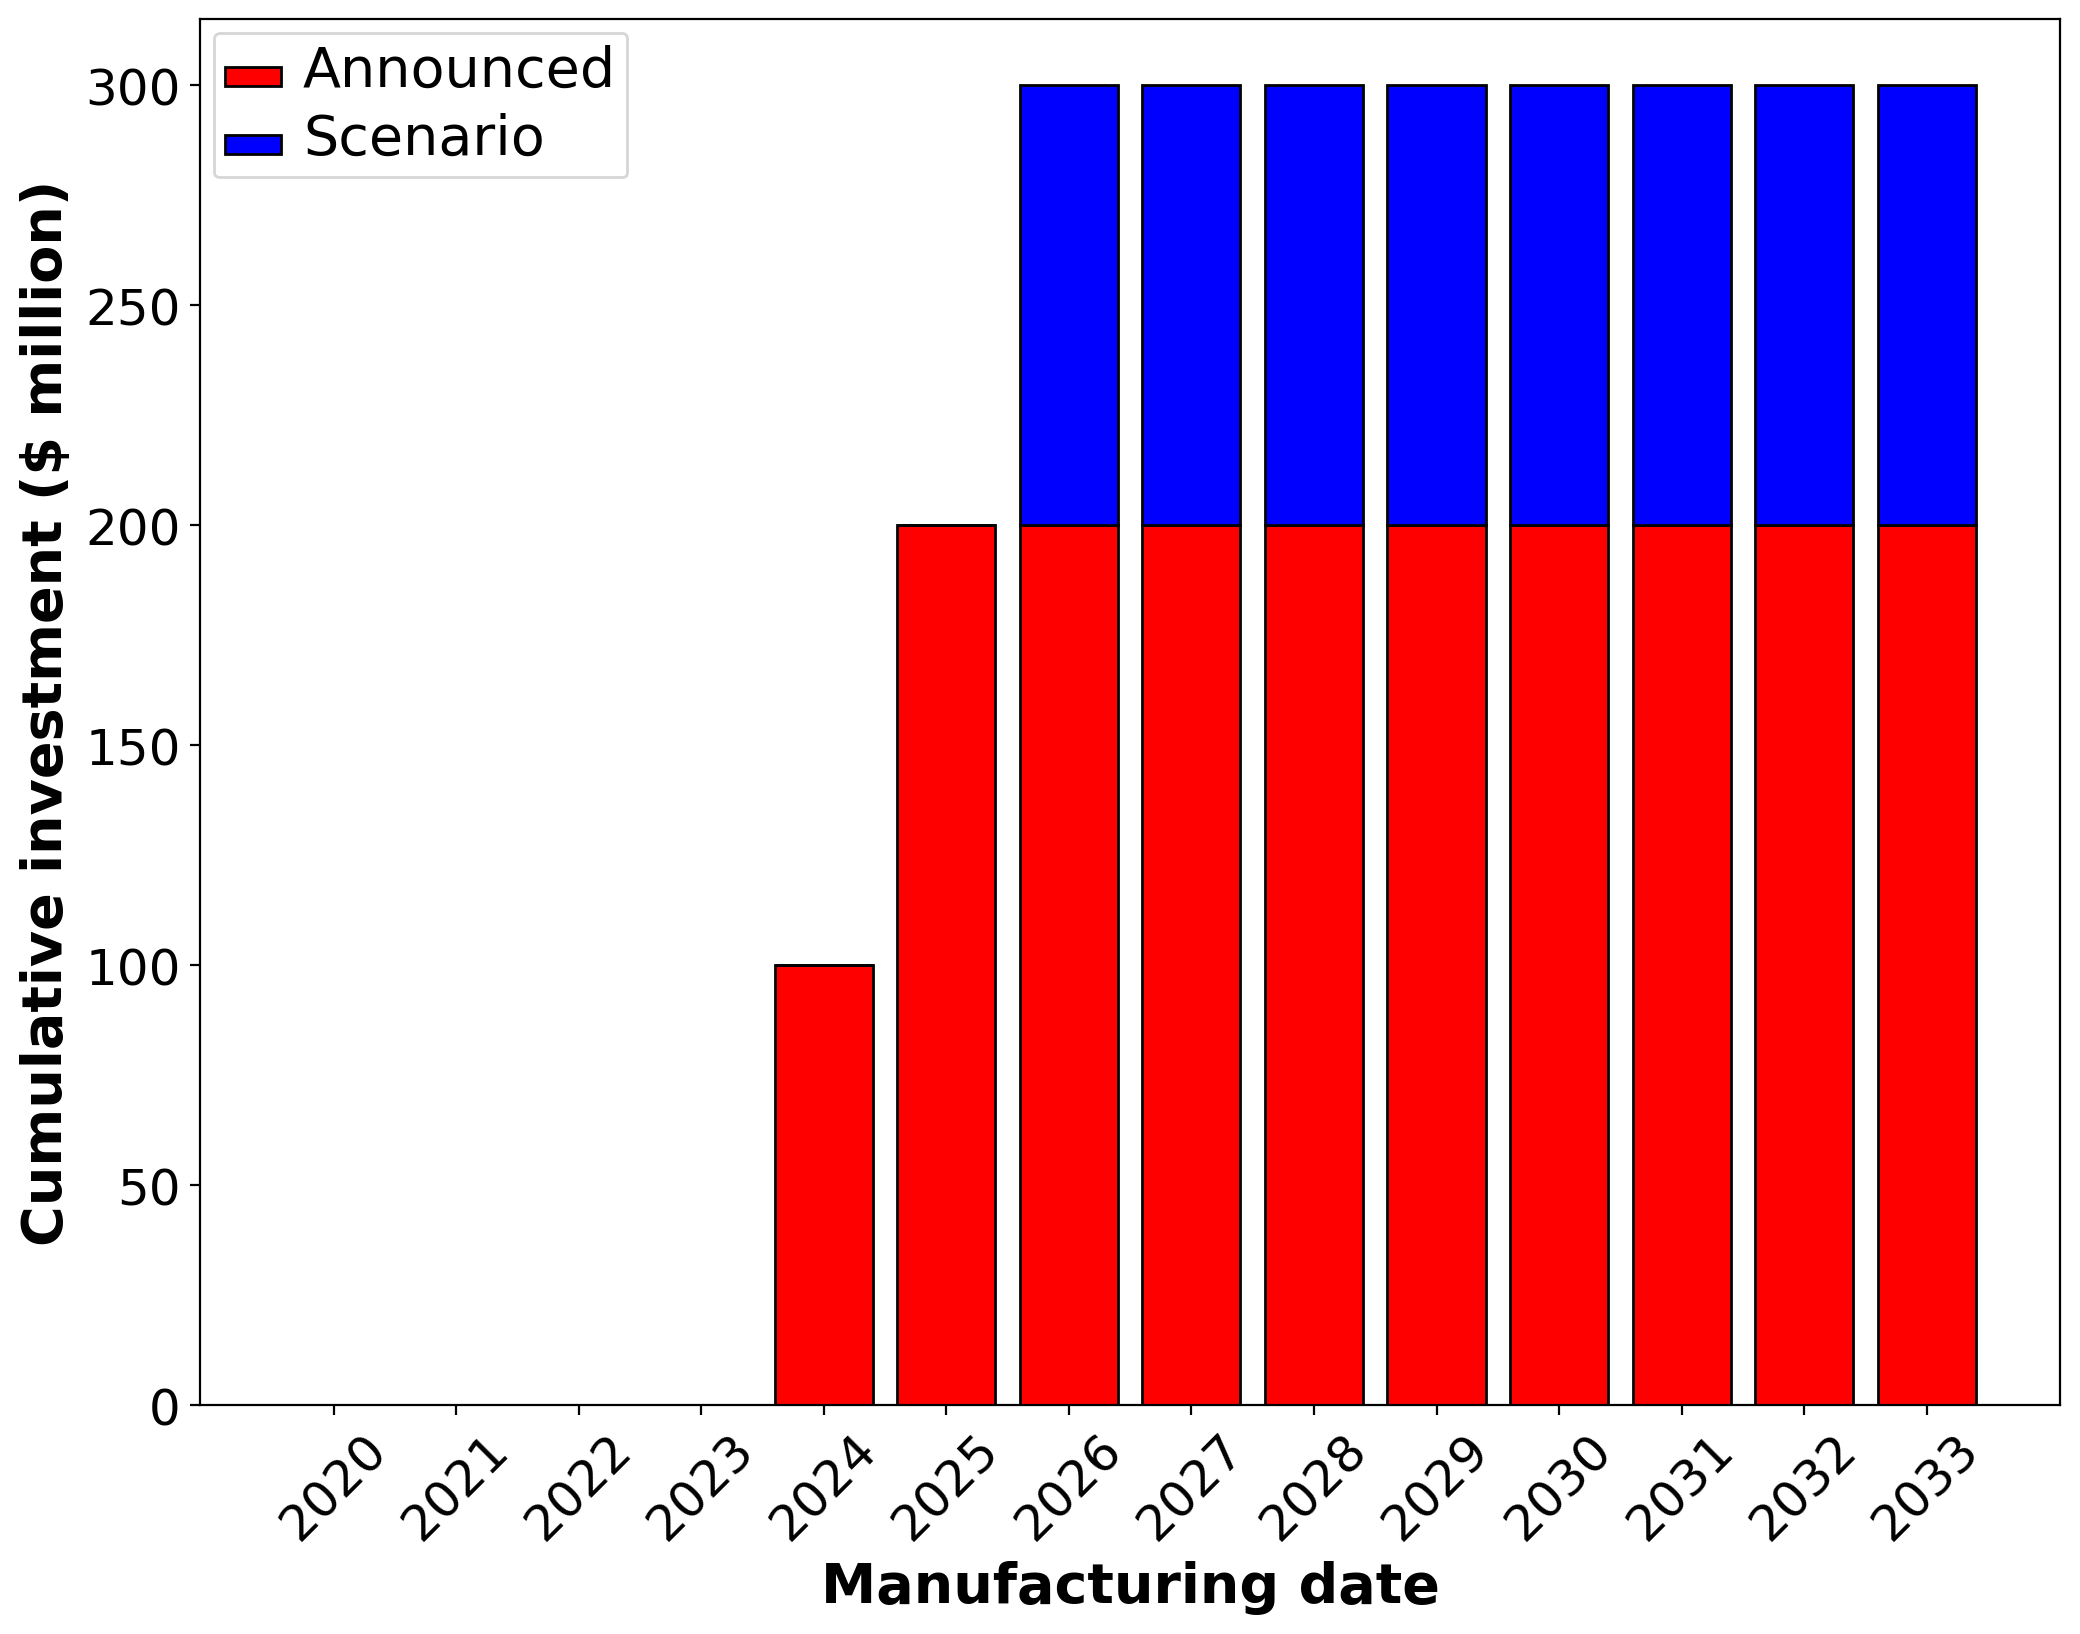
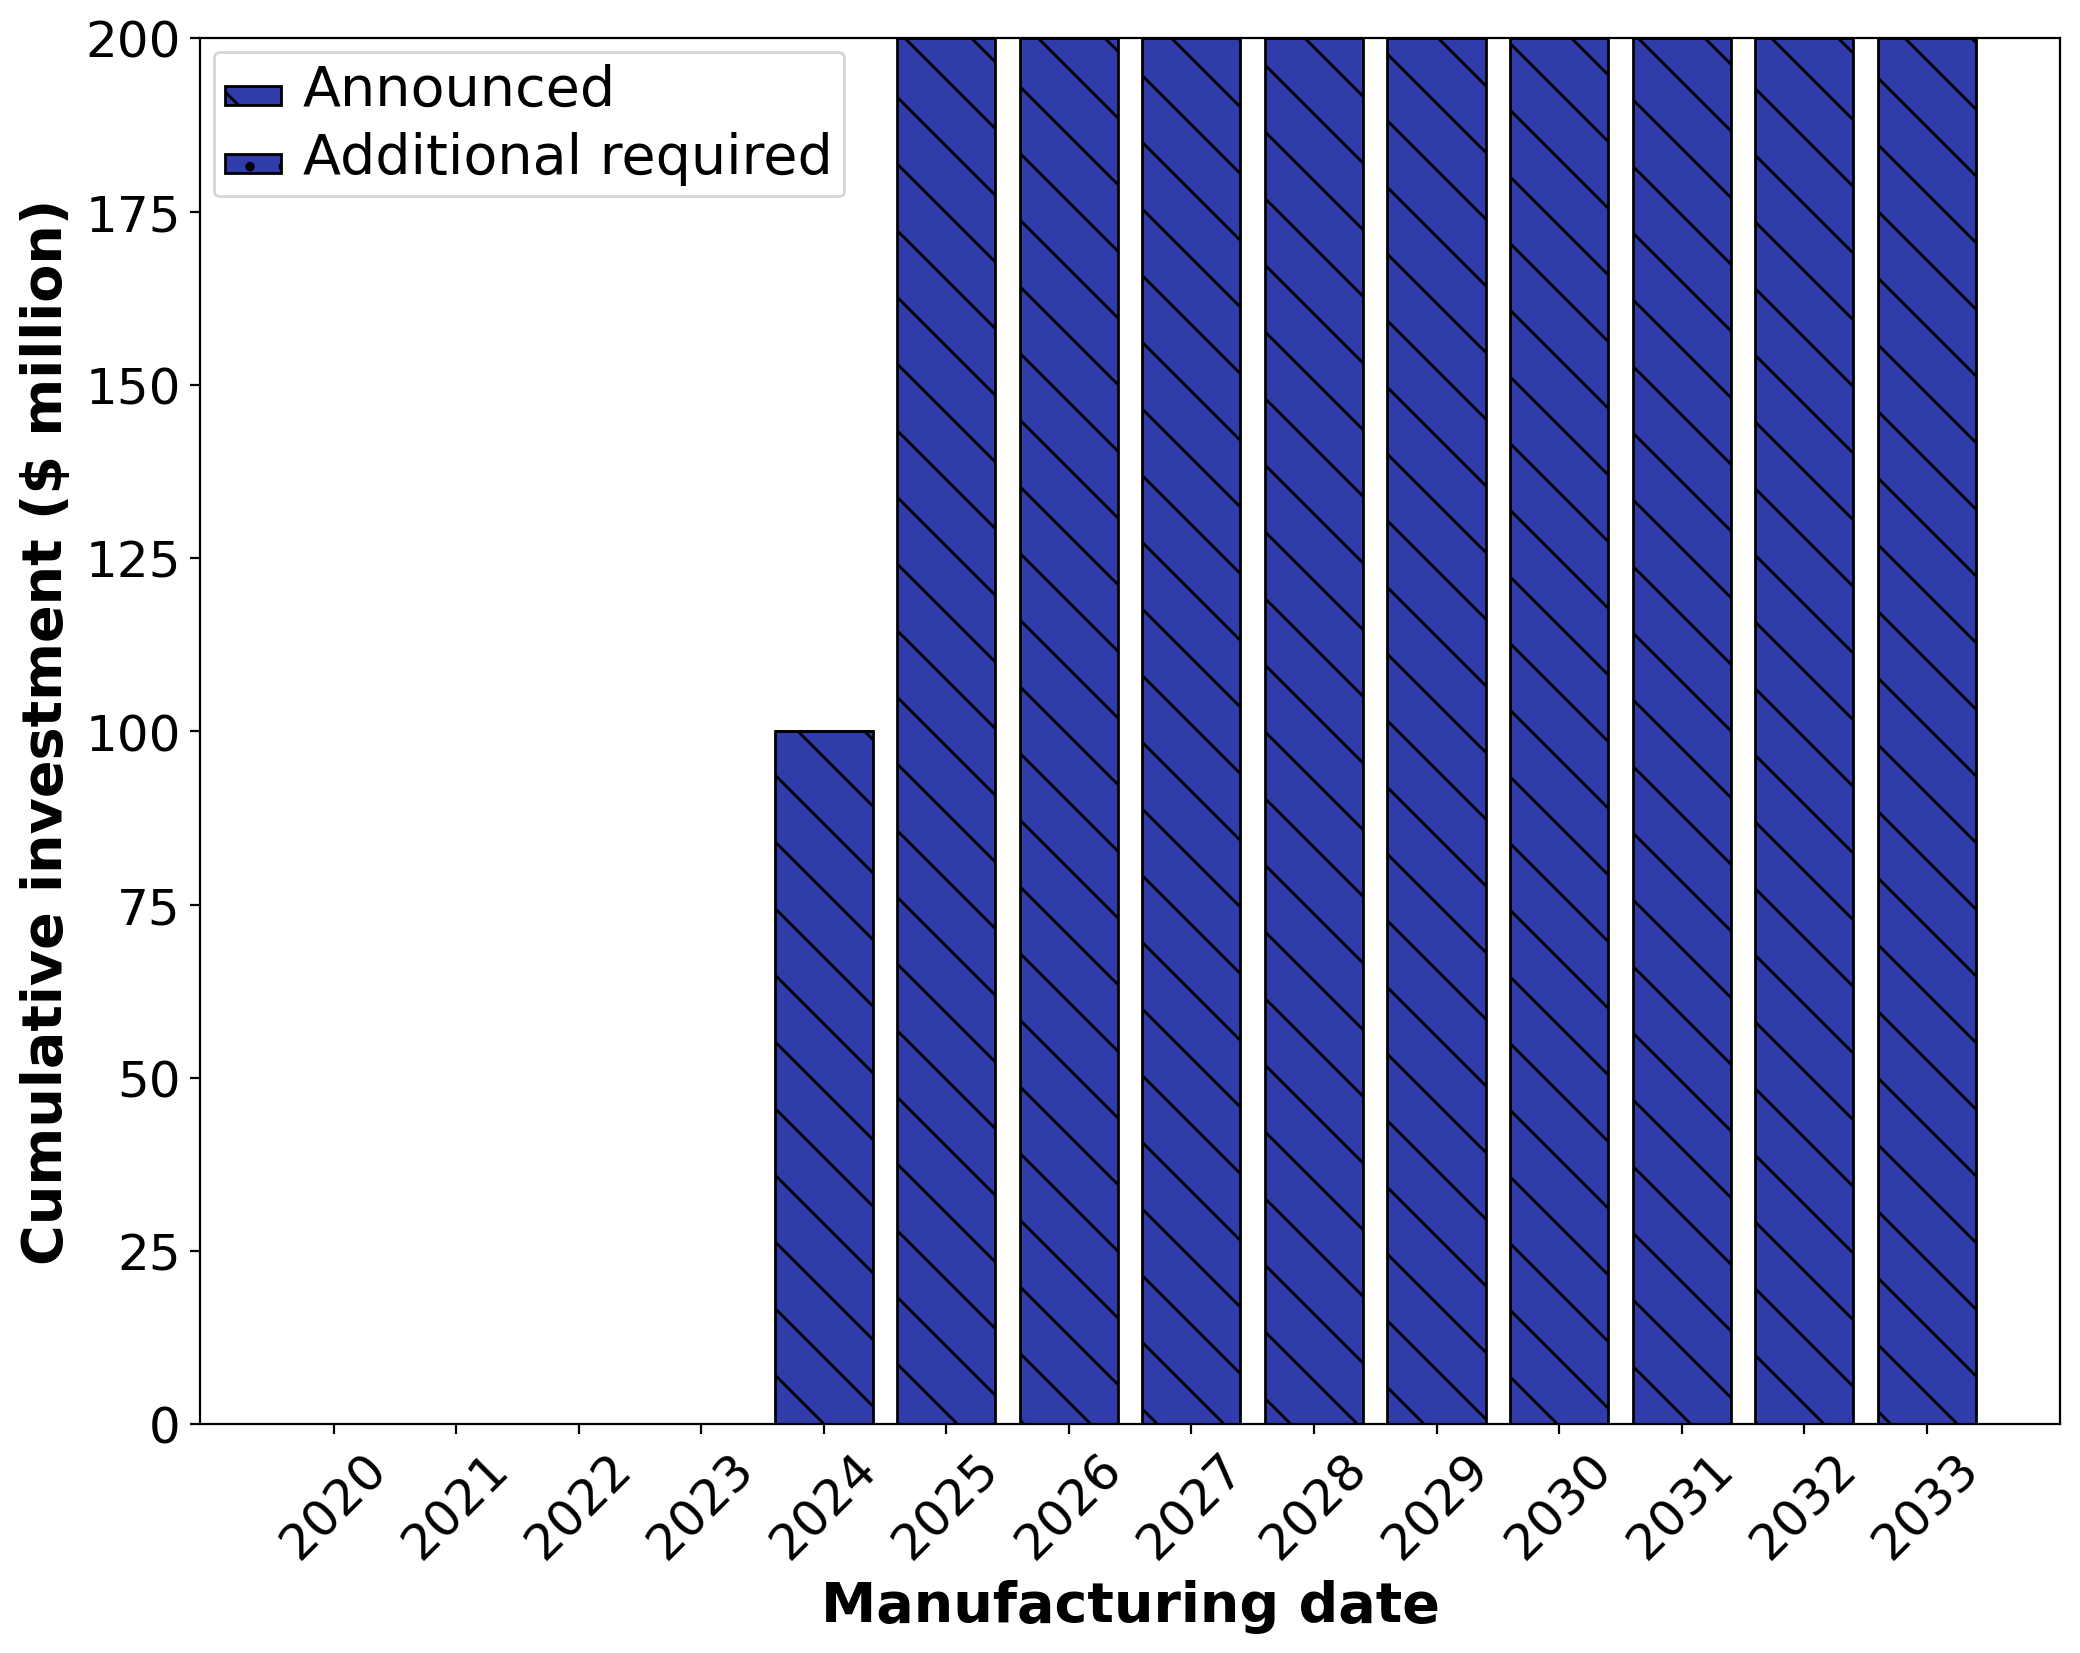
Added WTIV plots.  Updated colors

diff --git a/plot_routines.py b/plot_routines.py
@@ -119,21 +119,21 @@ def initFigAxis():
     ax = fig.add_subplot(111)
     return fig, ax
 
-def plot_supply_demand(x, y_zip, ylabel, y2=None, fname=None, plot_average=None):
+def plot_supply_demand(x, y_zip, color_list, component, ylabel, y2=None, fname=None, plot_average=None):
     fig, ax = initFigAxis()
     y_total = np.zeros(len(x))
-    for y, c, n in y_zip:
-        ax.bar(x, y, color=c, edgecolor='k', label=n, bottom=y_total)
+    for y, c, n, h in y_zip:
+        ax.bar(x, y, color=color_list[component], edgecolor='k', hatch=h, label=n, bottom=y_total)
         y_total += y
     if y2 is not None:
-        ax.plot(x, y2, 'k', label='Annual demand', alpha=0.5)
+        ax.plot(x, y2, 'r', label='Annual demand', alpha=0.5)
         if plot_average is not None:
             _ind_i = np.where(x == plot_average[0])[0][0]
             _ind_f = np.where(x == plot_average[1])[0][0]
             x_average = x[_ind_i:_ind_f+1]
             y_average = np.ones(len(x_average)) * np.mean(y2[_ind_i:_ind_f+1])
             label_avg = 'Average demand between ' + str(x[_ind_i]) + ' and ' + str(x[_ind_f])
-            ax.plot(x_average, y_average, c='k', linestyle='--', label=label_avg)
+            ax.plot(x_average, y_average, c='r', linestyle='--', label=label_avg)
     # else:
     #     # ax.plot(x, y2, 'k', label='Total demand')
     ax.set_xticks(x)
@@ -141,6 +141,8 @@ def plot_supply_demand(x, y_zip, ylabel, y2=None, fname=None, plot_average=None)
     ax.set_xlabel('Manufacturing date')
 
     ax.set_ylabel(ylabel)
+    ax.get_yaxis().set_major_formatter(
+        mpl.ticker.FuncFormatter(lambda x, p: format(int(x), ',')))
 
     ax.legend(loc='upper left')
 
@@ -149,9 +151,9 @@ def plot_supply_demand(x, y_zip, ylabel, y2=None, fname=None, plot_average=None)
         mysave(fig, fname)
         plt.close()
 
-def plot_diff(x, y, ylabel, fname):
+def plot_diff(x, y, ylabel, color, fname):
     fig, ax = initFigAxis()
-    ax.bar(x, y)
+    ax.bar(x, y, color=color, alpha=0.5)
 
     ax.set_xticks(x)
     ax.set_xticklabels(ax.get_xticks(), rotation=45)
@@ -172,42 +174,30 @@ def plot_investment(x, y1, y2, components, color_list, fname=None):
 
     yBase = np.zeros(len(x))
     for c in components:
-        # yPlot = yBase + y
-        # Plot announced
-        yPlot = yBase + y1[c]
+        yPlot = yBase + y1[c] + y2[c]
         ax.plot(x, yPlot, 'k')
-        ax.fill_between(x, list(yBase), list(yPlot), color=color_list[c], alpha=0.5, label=c)
-        ax.fill_between(x, list(yBase), list(yPlot), color=color_list[c], edgecolor='k', hatch='+', alpha=0.5, zorder=2)
-        # Plot scenario
-        yPlot_scenario = yPlot + y2[c]
-        ax.plot(x, yPlot_scenario, 'k')
-        ax.fill_between(x, list(yPlot), list(yPlot_scenario), color=color_list[c], edgecolor='k', hatch='\\', alpha=0.5)
+        ax.fill_between(x, list(yBase), list(yPlot), color=color_list[c], label=c)
 
-        yBase = yPlot_scenario
+        yBase = yPlot
 
-    # Add legend entry for hatching
-    handles, labels = ax.get_legend_handles_labels()
-    patch1 = mpatches.Patch(facecolor='white', edgecolor='k', hatch='+', label='Announced facilities')
-    patch2 = mpatches.Patch(facecolor='white',
+    ax.set_xlabel('Manufacturing date')
+    ax.set_ylabel('Investment, $ million')
+    ax.get_yaxis().set_major_formatter(
+        mpl.ticker.FuncFormatter(lambda x, p: format(int(x), ',')))
 
-    edgecolor='k', hatch='\\', label='Scenario facilities')
-
-    handles.append(patch1)
-    handles.append(patch2)
-
-    ax.legend(handles=handles, loc='upper left')
+    ax.legend(loc='upper left')
 
     if fname is not None:
         myformat(ax)
         mysave(fig, fname)
         plt.close()
 
-def plot_num_facilities(components, y1, y2, fname=None):
+def plot_num_facilities(components, y1, y2, color_list, fname=None):
     """Plot the total number of required facilities per component"""
 
     announced = {}
     scenario = {}
-
+    bar_color = []
 
     for c in components:
         count1 = 0
@@ -221,21 +211,23 @@ def plot_num_facilities(components, y1, y2, fname=None):
         announced[c] = count1
         scenario[c] = count2
 
+        bar_color.append(color_list[c])
+
     fig, ax = initFigAxis()
     announced_vals = list(announced.values())
     scenario_vals = list(scenario.values())
 
-    ax.bar(components, announced_vals, color='r', label='Announced')
-    ax.bar(components, scenario_vals, color='b', bottom=announced_vals, label='Scenario')
+    ax.bar(components, announced_vals, color=bar_color, hatch=color_list['Announced_hatch'])
+    ax.bar(components, scenario_vals, color=bar_color,  hatch=color_list['Scenario_hatch'], bottom=announced_vals)
 
-    # ax.set_xticks(components)
-    # ax.set_xticklabels(ax.get_xticks(), rotation=45)
     ax.set_xticklabels(components, rotation=45)
-    ax.set_xlabel('Component')
-
     ax.set_ylabel('Number of facilities')
 
-    ax.legend(loc='upper left')
+    patch1 = mpatches.Patch(facecolor='white', edgecolor='k', hatch=color_list['Announced_hatch'], label='Announced facilities')
+    patch2 = mpatches.Patch(facecolor='white',  edgecolor='k', hatch=color_list['Scenario_hatch'], label='Additional required facilities')
+    handles = [patch1, patch2]
+
+    ax.legend(handles=handles, loc='upper left')
 
     if fname is not None:
         myformat(ax)

diff --git a/main.py b/main.py
@@ -16,7 +16,7 @@ filepath_scenarios = "library/Generic_facilities.xlsx"
 filepath_announced = "library/Announced_factories.xlsx"
 filepath_pipeline = "library/total_demand.csv"
 
-components = ['Monopile', 'Blade', 'Nacelle', 'Tower', 'Transition piece', 'Array cable', 'Export cable']
+components = ['Monopile', 'Blade', 'Nacelle', 'Tower', 'Transition piece', 'Array cable', 'Export cable', 'WTIV']
 
 if __name__ == "__main__":
     # Demand
@@ -32,7 +32,9 @@ if __name__ == "__main__":
         'Smulders - Transition piece',
         'Nexans - Export cable',
         'Prysmian - Export cable',
-        'Hellenic - Array cable'
+        'Hellenic - Array cable',
+        'Keppel AmFELS - WTIV',
+        'Sembcorp - WTIV'
     ]
     # Scenarios
     indiv_scenario = read_future_scenarios(filepath_scenarios, 'Avg Demand Scenario')
@@ -74,27 +76,35 @@ if __name__ == "__main__":
         # Compare with demand
         fname = 'results/'+ c + '_supply_demand'
         y_throughput = [total_announced_throughput[c], total_scenario_throughput[c] ]
-        color_throughput = ['r', 'b', 'k']
-        name_throughput = ['Announced','Scenario','Annual demand']
-        ylabel = 'Throughput (' + c + '/year)'
-        plot_supply_demand(years, zip(y_throughput, color_throughput, name_throughput), ylabel, y2=total_demand[c], fname=fname, plot_average=[2023,2033])
+        color_throughput = [color_list['Announced'], color_list['Scenario'], 'k']
+        name_throughput = ['Announced','Additional required','Annual demand']
+        hatch_throughput = [color_list['Announced_hatch'], color_list['Scenario_hatch'], None]
+        if c == 'WTIV':
+            ylabel = 'Cumulative wind turbine installation vessels'
+            _plot_average = None
+        else:
+            ylabel = 'Throughput (' + c + '/year)'
+            _plot_average = [2023,2033]
+
+        plot_supply_demand(years, zip(y_throughput, color_throughput, name_throughput, hatch_throughput), color_list, c, ylabel, y2=total_demand[c], fname=fname, plot_average=_plot_average)
         #
         # Plot difference between supply and demand
         # TODO: Figure cleanup, different bars colors
         fname_diff = 'results/' + c + 'diff'
         y_diff = total_announced_throughput[c] + total_scenario_throughput[c] - total_demand[c]
         ylabel_diff = 'Difference from annual demand (' + c + '/year)'
-        plot_diff(years, y_diff, ylabel_diff, fname_diff)
+        plot_diff(years, y_diff, ylabel_diff, color_list[c], fname_diff)
         #
         # Plot investment
         fname = 'results/'+ c + '_investment'
         y_investment = [total_announced_investment[c], total_scenario_investment[c] ]
-        color_investment = ['r', 'b']
-        name_investment = ['Announced','Scenario']
+        color_investment = [color_list['Announced'], color_list['Scenario']]
+        name_investment = ['Announced','Additional required']
+        hatch_throughput = [color_list['Announced_hatch'], color_list['Scenario_hatch'], None]
         ylabel = 'Cumulative investment ($ million)'
-        plot_supply_demand(years, zip(y_throughput, color_investment, name_investment), ylabel, fname=fname)
+        plot_supply_demand(years, zip(y_throughput, color_investment, name_investment, hatch_throughput), color_list, c, ylabel, fname=fname)
         #
 
 plot_investment(years, total_announced_investment, total_scenario_investment, components, color_list, fname='results/total_investment')
 
-plot_num_facilities(components, indiv_announced, indiv_scenario, fname='results/num_facilities')
+plot_num_facilities(components, indiv_announced, indiv_scenario, color_list, fname='results/num_facilities')

diff --git a/helpers.py b/helpers.py
@@ -27,13 +27,18 @@ tier23_scaling = {'Flange': ['Tower', 1],
     'Steel plate': ['Monopile', 45]
 }
 
-color_list = {'Monopile': '#282D30',
-    'Blade': '#00FFFF',
-    'Nacelle': '#7FFFD4',
-    'Tower': '#008000',
-    'Transition piece': '#D2691E' ,
-    'Array cable': '#FFA500',
-    'Export cable': '#FF4500',
+color_list = {'Monopile': '#303CAA',
+    'Blade': '#F6A92A',
+    'Nacelle': '#FFCE7C',
+    'Tower': '#A56700',
+    'Transition piece': '#717ACC' ,
+    'Array cable': '#504CC9',
+    'Export cable': '#1A14A5',
+    'Announced': '#ECB400',
+    'Scenario': '#B78B00',
+    'WTIV': '#688CD3',
+    'Announced_hatch': '\\',
+    'Scenario_hatch': '.'
 }
 
 def read_future_scenarios(file, sheet):
